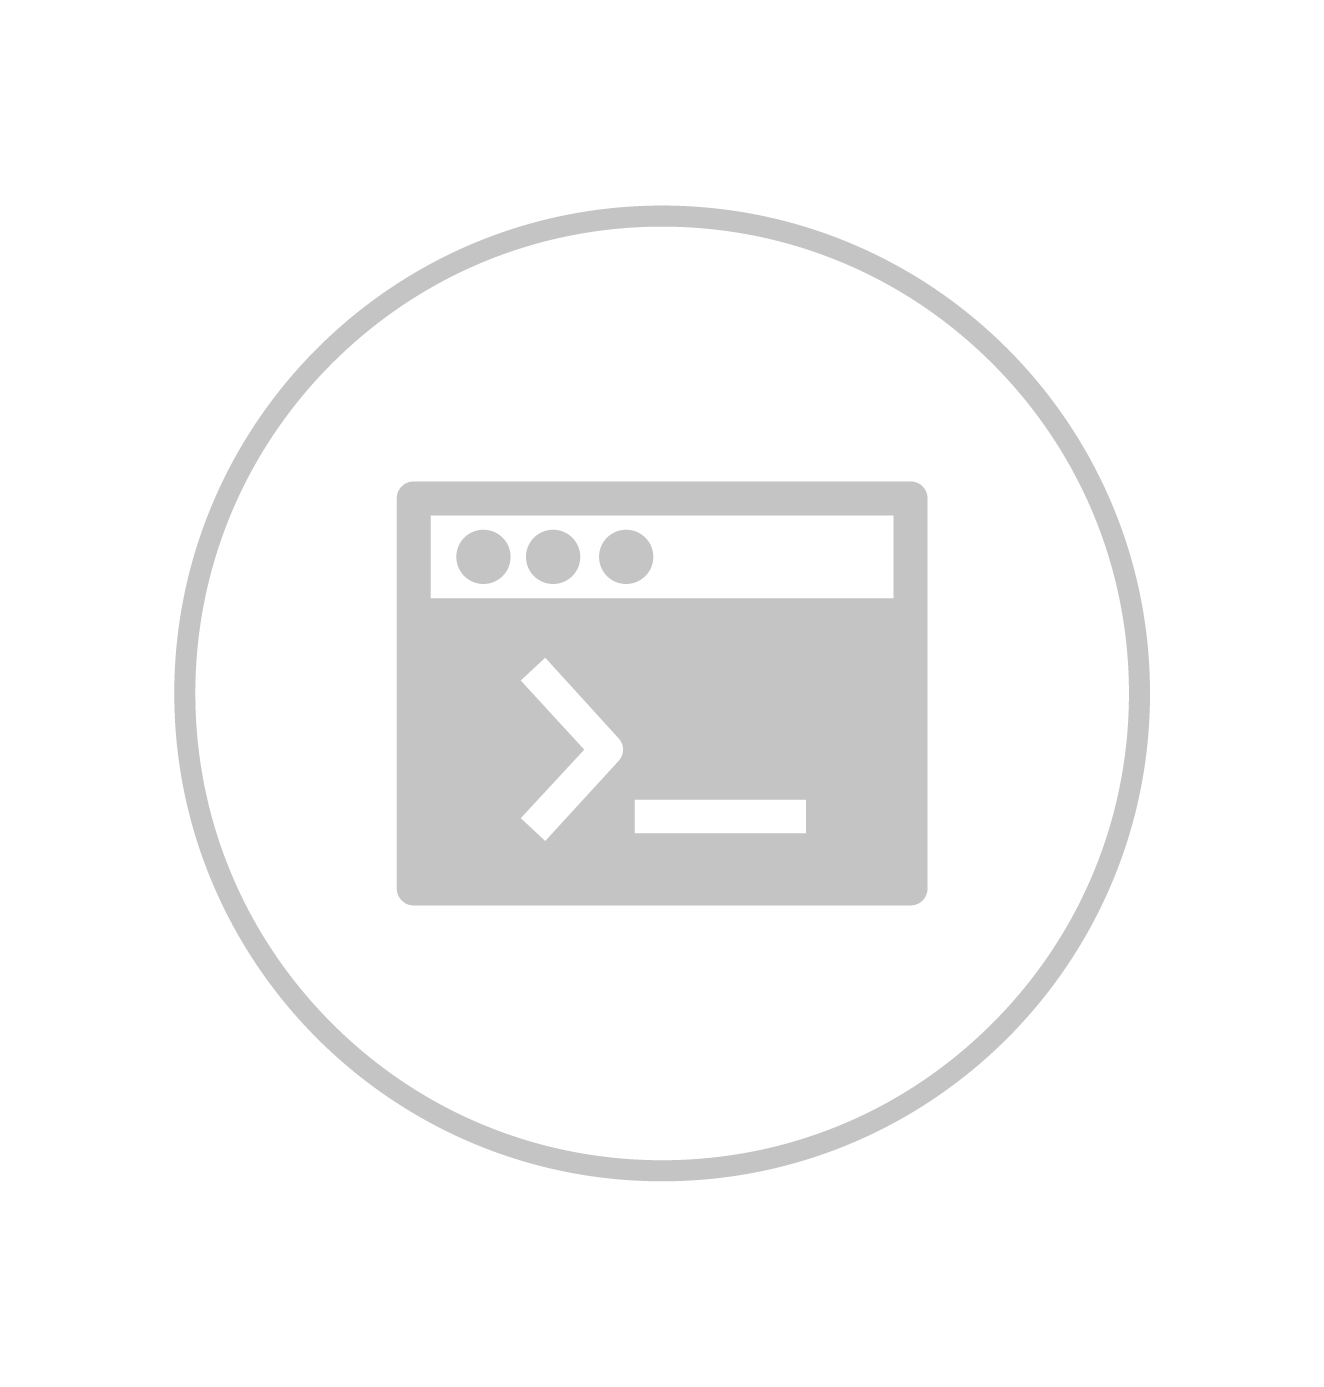
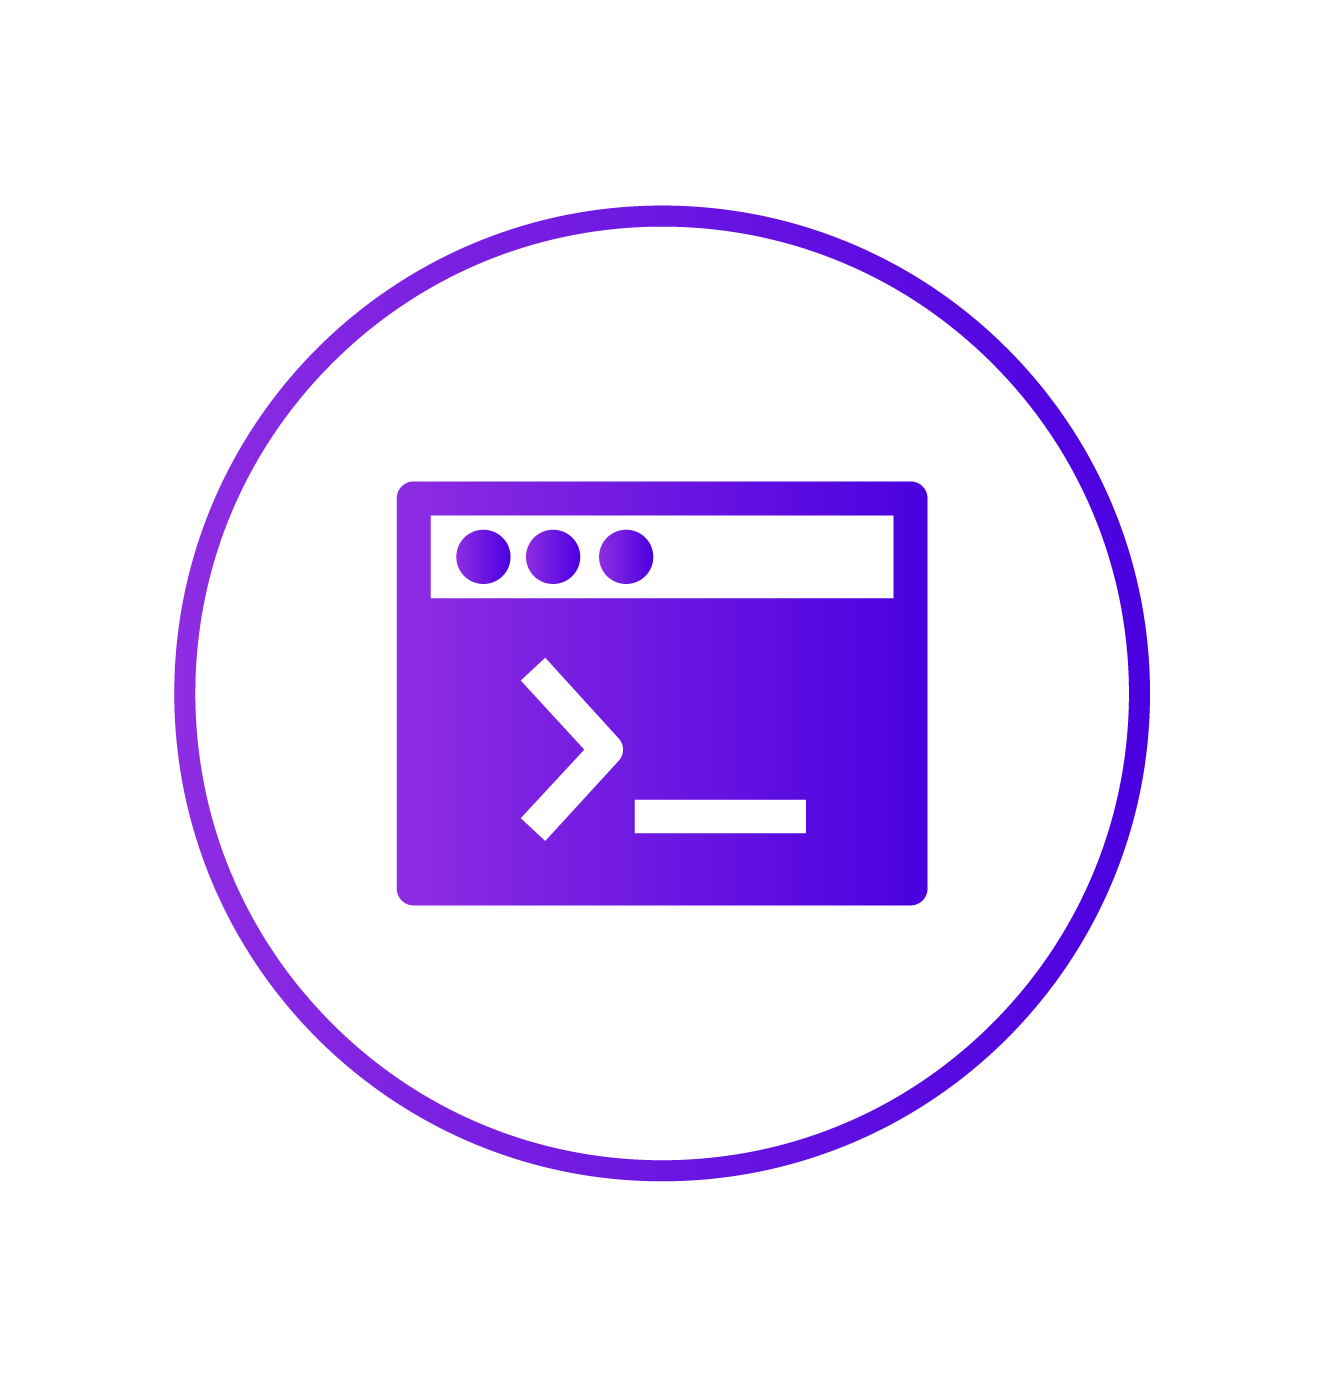
colors - buttons - mockup - containers

diff --git a/app/assets/stylesheets/pages/_favorite.scss b/app/assets/stylesheets/pages/_favorite.scss
@@ -9,12 +9,12 @@
   // design
   background: white;
   border-radius: 5px;
-  box-shadow: 0 1px 3px rgba(0,0,0,0.12), 0 1px 2px rgba(0,0,0,0.24);
+  box-shadow: 0 1px 1px rgba(0, 0, 0, 0.1), 0 1px 1px rgba(0, 0, 0, 0.1);
   transition: all 0.3s cubic-bezier(.25,.8,.25,1);
 
   // Hover effect
   &:hover {
-  box-shadow: 0 5px 10px rgba(0,0,0,0.2), 0 5px 5px rgba(0,0,0,0.22);
+      box-shadow: 0 4px 5px rgba(0, 0, 0, 0.1), 0 5px 5px rgba(0, 0, 0, 0.1);
 
     .app-card__hidden{
       visibility: visible;
@@ -25,7 +25,7 @@
 // Contenant de la photo
 .app-card__visible {
 
-  height: 175px;
+  height: 160px;
   width: auto;
   padding: 20px;
 
@@ -66,21 +66,36 @@
   border: none;
 }
 
-.nav-pills > li.active > a, .nav-pills > li.active > a:hover {
-  color: #fff;
-}
+.nav{
+  //Position
+  margin-top: 25px;
+  margin-bottom: 25px;
 
-.nav-pills > li > a, .nav-pills > li {
-  color: #C4C4C4;
-  &:hover {
-    background: none;
+  //Propriétés
+  display: flex;
+  flex-direction: row;
+  justify-content: center;
+  align-items: center;
+
+  color: $gray;
+
+  &:hover{
+  background-color: none !important;
+  }
+  a {
+    color: $gray;
+    text-decoration: none;
   }
 }
 
 .nav-pills > li.active > a, .nav-pills > li.active > a:hover, .nav-pills > li.active > a:focus {
-  background-color: #C4C4C4;
-  color: #fff;
-  border-radius: 50px;
-  font-weight: 500;
+  color: $green;
+  background-color: transparent !important;
+  font-weight: bold;
   font-family: "Montserrat";
+  }
+
+.nav > li > a:hover, .nav > li > a:focus {
+    text-decoration: none;
+    background-color: transparent;
 }

diff --git a/app/assets/stylesheets/pages/_apps-index.scss b/app/assets/stylesheets/pages/_apps-index.scss
@@ -3,23 +3,29 @@
 
   // Alignement titre page avec cartes
   .h2 {
-    margin-left: 30px;
+    padding-left: 43px;
+    margin-bottom: -3px;
+    font-size: 30px !important;
   }
 }
+
 .sidebar-container {
   width: 70px;
 }
+
 .content-container {
   flex: 1 1 auto;
 }
 
 .container {
  width: 1100px;
+ margin-bottom: 20px;
+ margin-top: 20px;
 }
 .app-card {
     //taille et fonction
   width: 200px;
-  height: 230px;
+  height: 235px;
   display: flex;
   flex-direction: column;
   margin: 30px;
@@ -28,12 +34,12 @@
   // design
   background: white;
   border-radius: 5px;
-  box-shadow: 0 1px 3px rgba(0,0,0,0.12), 0 1px 2px rgba(0,0,0,0.24);
+  box-shadow: 0 1px 1px rgba(0, 0, 0, 0.1), 0 1px 1px rgba(0, 0, 0, 0.1);
   transition: all 0.3s cubic-bezier(.25,.8,.25,1);
   color: black;
     &:hover {
-       height: 230px;
-       box-shadow: 0 5px 10px rgba(0,0,0,0.2), 0 5px 5px rgba(0,0,0,0.22);
+       height: 235px;
+           box-shadow: 0 4px 5px rgba(0, 0, 0, 0.1), 0 5px 5px rgba(0, 0, 0, 0.1);
       .app-card__content {
         width: 100%;
         font-size: 14px;

diff --git a/app/assets/stylesheets/pages/_show.scss b/app/assets/stylesheets/pages/_show.scss
@@ -55,13 +55,12 @@
 
   .app-show__heading {
     color: rgb(25, 25, 25);
-    letter-spacing: 4px;
   }
 
   .app-show__category {
     color: rgb(25, 25, 25);
     margin-bottom: 0px;
-    margin-top: 30px;
+    margin-top: 25px;
 
   }
 
@@ -88,7 +87,7 @@
     background: #FFFFFF;
     border: 1px solid #DCDCDC;
     box-sizing: border-box;
-    margin-bottom: 30px;
+    margin-top: 25px;
     border: none;
   }
 

diff --git a/app/assets/stylesheets/components/_sidebar.scss b/app/assets/stylesheets/components/_sidebar.scss
@@ -67,7 +67,7 @@
 
 .sidebar__category-name {
   margin-left: 10px;
-  margin-top: 8px;
+  margin-top: 13px;
   opacity: 0;
   white-space: nowrap;
   transition: 0.2s all ease;
@@ -122,8 +122,8 @@
 }
 
 .sidebar-icon {
-  width: 40px;
-  height: 40px;
+  width: 45px;
+  height: 48px;
   background-size: cover;
   background-position: center;
   border-radius: 50%;

diff --git a/app/assets/stylesheets/config/_colors.scss b/app/assets/stylesheets/config/_colors.scss
@@ -10,10 +10,10 @@ $orange: #E67E22;
 // Personnal colors :
 
 $main: #F4F7F6;
-$green: #4FC4B6;
-$light-blue: #93F9B9;
+$green: #8e2de2;
+$light-blue: #4A00E0;
 $dark-gray: #141414;
 $gray: #727272;
 $light-gray: #C4C4C4;
 
-$brand-gradient: linear-gradient(45deg, #4FC4B6, #93F9B9);
+$brand-gradient: linear-gradient(45deg, #8e2de2, #4A00E0);

diff --git a/app/assets/stylesheets/pages/_home.scss b/app/assets/stylesheets/pages/_home.scss
@@ -1,6 +1,8 @@
 .home-container {
   // Position
   width: 100%;
+  position: relative;
+  left: 70px;
 
   // Div action
   display: flex;
@@ -32,5 +34,12 @@
 
 .mock-up {
   margin-bottom: 50px;
+}
+
+#mock {
+  height: 650px;
+  position: relative;
+  left: 125px;
+  top: 20px;
 }
 

diff --git a/app/assets/stylesheets/config/_fonts.scss b/app/assets/stylesheets/config/_fonts.scss
@@ -39,7 +39,7 @@ $headers-font: "Sofia Pro", "Helvetica", "sans-serif";
 }
 
 .h2 {
- font-size: 2.25em !important;
+ font-size: 30px !important;
  color: $dark-gray;
 }
 

diff --git a/app/assets/stylesheets/components/_button.scss b/app/assets/stylesheets/components/_button.scss
@@ -28,3 +28,8 @@
 .button:active {
   background: $brand-gradient;
 }
+
+.small{
+  font-size: 12px;
+      height: 30px;
+}
